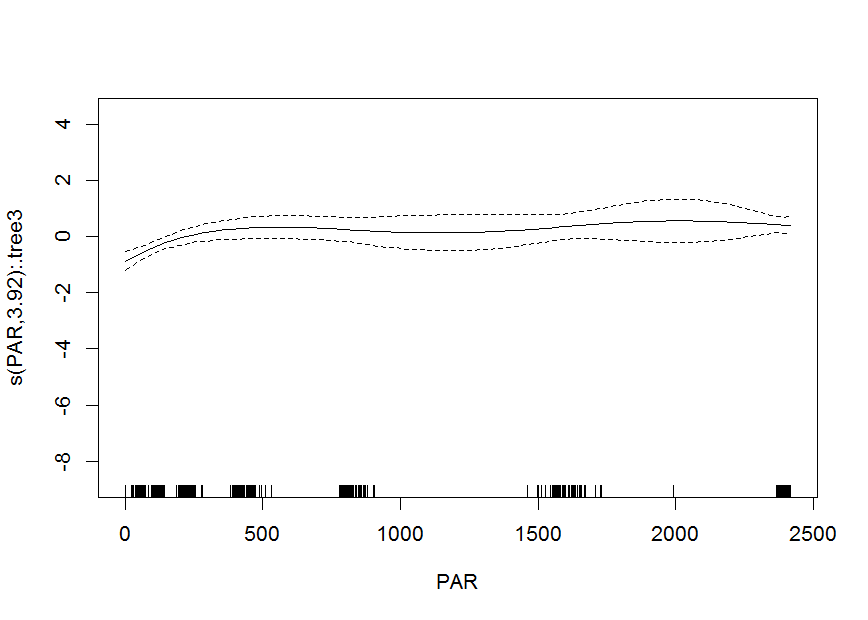
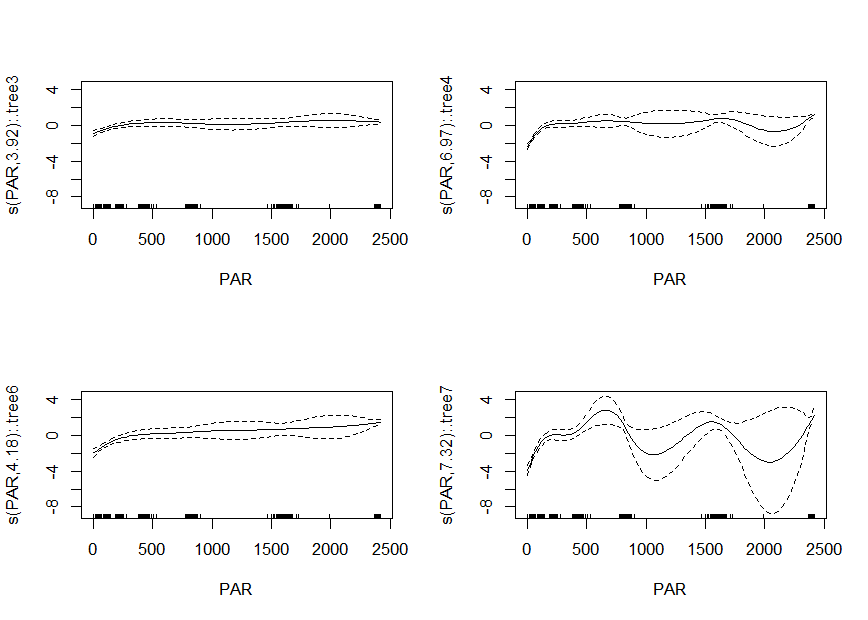
README updates

diff --git a/README.md b/README.md
@@ -1,14 +1,14 @@
 gamtree: Generalized additive model trees
 =========================================
 
-Experimental functions for fitting partially additive GAM-based recursive partitions: partially additive GAMs, comprising both global and local model components. The global components are fitted on all observations of a training dataset, while the local compontents are fitted on subgroups of the training dataset, which are detected from the data using model-based recursive partitioning.
+Experimental functions for fitting partially additive GAMs: GAMs comprising both global and local model components. The local components are fitted on subgroups of the training dataset, which are detected using model-based recursive partitioning. The global components are fitted on all observations of the training dataset. Specification of local components is required, specification of global components is optional. Some examples are provided below.
 
 For fitting the smooth and parametric terms, package **mgcv** is employed. For recursive partitioning, package **partykit** is employed.
 
-Some examples are provided below, and in the file `Examples.R`. But first some to-dos:
+The package is experimental and much work needs to be done still.
 
-To-do's
--------
+To-do list
+----------
 
 -   Add support for fitting GAMs using `bam()` instead of `gam()` (e.g., create `bam_fit` function, or include additional argument `type = c("gam", "bam")` in `gam_fit()` function.)
 
@@ -429,7 +429,7 @@ plot(gt4, which = "nodes")
 ![](inst/README-figures/README-unnamed-chunk-21-1.png)
 
 ``` r
-par(mfrow = c(2,3))
+par(mfrow = c(2, 3))
 plot(gt4$gamm)
 ```
 
@@ -437,7 +437,7 @@ plot(gt4$gamm)
 
 The plots also indicate very similar, but not identical effects.
 
-We can also compare the predicted vaues:
+We can also compare the predicted values:
 
 ``` r
 newdat <- eco
@@ -464,6 +464,8 @@ sapply(preds, min)
 #>  gamtree      gam     tree 
 #> 2.001505 2.001505 2.166788
 ```
+
+The predicted values seem very similar, but not the same.
 
 The same happens when we have no global parameters, but re-estimate the smooth parameters, given the subgroups from the tree:
 
@@ -499,10 +501,11 @@ plot(gt1, which = "nodes")
 ![](inst/README-figures/README-unnamed-chunk-25-1.png)
 
 ``` r
+par(mfrow = c(2, 2))
 plot(gt1$gamm)
 ```
 
-![](inst/README-figures/README-unnamed-chunk-26-1.png)![](inst/README-figures/README-unnamed-chunk-26-2.png)![](inst/README-figures/README-unnamed-chunk-26-3.png)![](inst/README-figures/README-unnamed-chunk-26-4.png)
+![](inst/README-figures/README-unnamed-chunk-26-1.png)
 
 ``` r
 preds <- data.frame(gamtree = predict(gt1),
